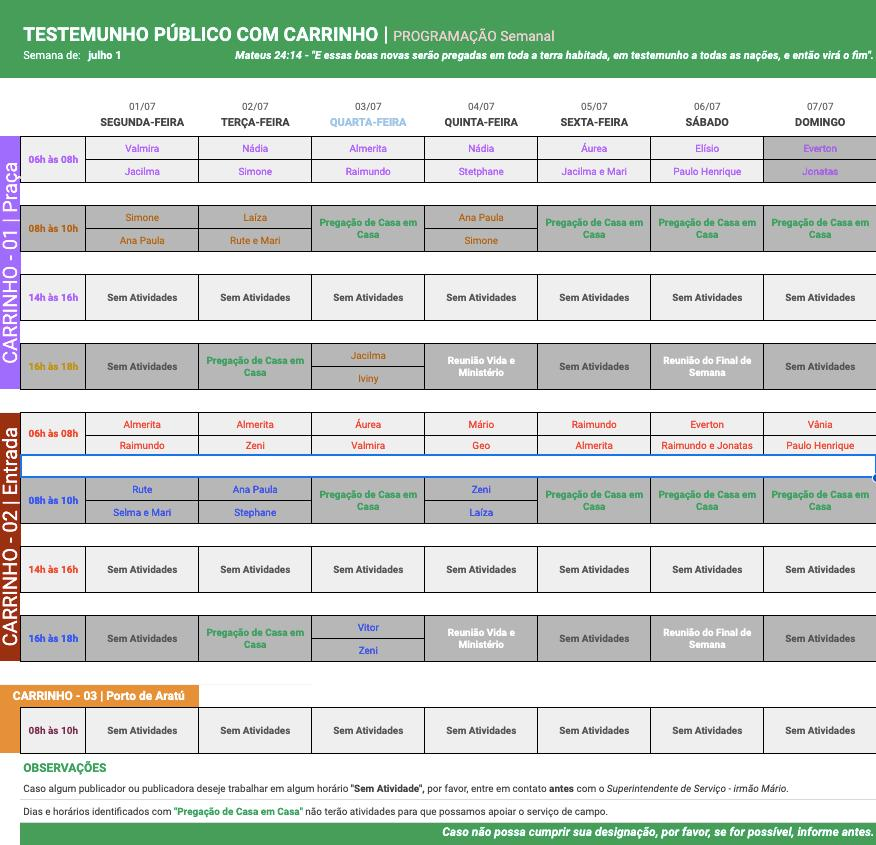
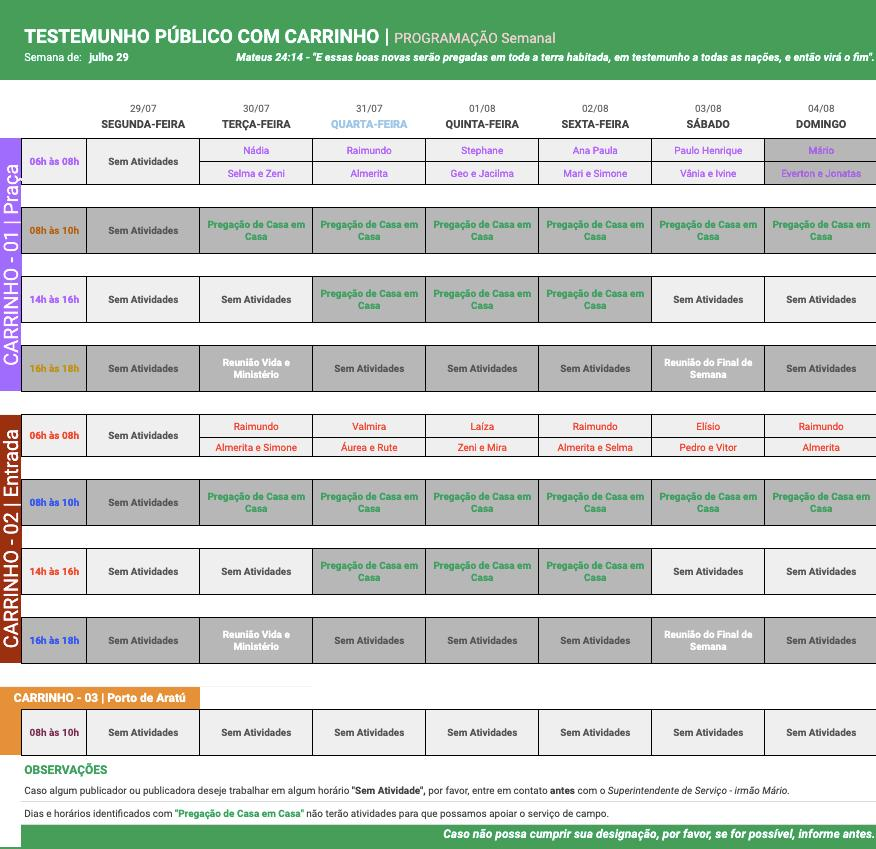
updated data august 2024

diff --git a/pages/mecanicas.html b/pages/mecanicas.html
@@ -112,79 +112,6 @@
                     </h2>
 
                     <h4 style="text-align: center; color: black">
-                        <strong>Mês de Julho</strong>
-                    </h4>
-                    <table class="table table-striped">
-                        <thead class="thead-dark">
-                            <tr>
-                                <th scope="col">Data</th>
-                                <th scope="col">Palco</th>
-                                <th scope="col">Porta</th>
-                                <th scope="col">Microfone 1</th>
-                                <th scope="col">Microfone 2</th>
-                            </tr>
-                        </thead>
-                        <tbody>
-                            <tr>
-                                <th scope="row">Quinta-feira - 04/07</th>
-                                <td>Elísio</td>
-                                <td>Raimundo</td>
-                                <td>Dielson</td>
-                                <td>Jonatan</td>
-                            </tr>
-                            <tr>
-                                <th scope="row">Sábado - 06/07</th>
-                                <td>Dielson</td>
-                                <td>Vitor</td>
-                                <td>Raimundo</td>
-                                <td>Claudemiro</td>
-                            </tr>
-                            <tr>
-                                <th scope="row">Quinta-feira - 11/07</th>
-                                <td>Elísio</td>
-                                <td>Dielson</td>
-                                <td>Pedro</td>
-                                <td>Mário</td>
-                            </tr>
-                            <tr>
-                                <th scope="row">Sábado - 13/07</th>
-                                <td>Vitor</td>
-                                <td>Claudemiro</td>
-                                <td>Dielson</td>
-                                <td>Jonatan</td>
-                            </tr>
-                            <tr>
-                                <th scope="row">Quinta-feira - 18/07</th>
-                                <td>Vitor</td>
-                                <td>Dielson</td>
-                                <td>Jonatan</td>
-                                <td>Pedro</td>
-                            </tr>
-                            <tr>
-                                <th scope="row">Sábado - 20/07</th>
-                                <td>Elísio</td>
-                                <td>Raimundo</td>
-                                <td>Dielson</td>
-                                <td>Claudemiro</td>
-                            </tr>
-                            <tr>
-                                <th scope="row">Quinta-feira - 25/07</th>
-                                <td>Claudemiro</td>
-                                <td>Dielson</td>
-                                <td>Vitor</td>
-                                <td>Pedro</td>
-                            </tr>
-                            <tr>
-                                <th scope="row">Sábado - 27/07</th>
-                                <td>Vitor</td>
-                                <td>Claudemiro</td>
-                                <td>Dielson</td>
-                                <td>Jonatan</td>
-                            </tr>
-                        </tbody>
-                    </table>
-
-                    <h4 style="text-align: center; color: black">
                         <strong>Mês de Agosto</strong>
                     </h4>
                     <table class="table table-striped">
@@ -350,46 +277,6 @@
                         <a name="ensino"><strong>Presidência aos Sábados e Leitor de A
                                 Sentinela</strong></a>
                     </h2>
-
-                    <h4 style="text-align: center; color: black">
-                        <strong>Mês de Julho</strong>
-                    </h4>
-                    <table class="table table-striped">
-                        <thead class="thead-dark">
-                            <tr>
-                                <th scope="col">Data</th>
-                                <th scope="col">Presidente</th>
-                                <th scope="col">Leitor de A Sentinela</th>
-                            </tr>
-                        </thead>
-                        <tbody>
-                            <tr>
-                                <th scope="row">06/07</th>
-                                <td>Mário Júnior</td>
-                                <td>Josenildo</td>
-                            </tr>
-                            <tr>
-                                <th scope="row">13/07</th>
-                                <td>Elísio Chagas</td>
-                                <td>Claudemiro Rodrigues</td>
-                            </tr>
-                            <tr>
-                                <th scope="row">20/07</th>
-                                <td>Paulo Henrique</td>
-                                <td>Dielson Paz</td>
-                            </tr>
-                            <tr>
-                                <th scope="row">27/07</th>
-                                <td style="color: red">
-                                    <strong>CONGRESSO</strong>
-                                </td>
-                                <td style="color: red">
-                                    <strong>CONGRESSO</strong>
-                                </td>
-                            </tr>
-                        </tbody>
-                    </table>
-
                     <h4 style="text-align: center; color: black">
                         <strong>Mês de Agosto</strong>
                     </h4>

diff --git a/pages/servicos.html b/pages/servicos.html
@@ -105,7 +105,7 @@
                         <a name="semanal"><strong>Programação Semanal de Campo</strong></a>
                     </h2>
                     <div>
-                        <img src="../assets/images/data/campoJulho.jpeg" alt="Programação Semanal de Serviço de Campo"
+                        <img src="../assets/images/data/campoAgosto.jpeg" alt="Programação Semanal de Serviço de Campo"
                             width="100%" height="100%" />
                     </div>
 
@@ -234,7 +234,7 @@
                         <a name="carrinho"><strong>Programação Carrinho / Display</strong></a>
                     </h2>
                     <h4 style="text-align: center; color: black;">
-                        <strong>Semana de 01 à 07 de Julho</strong>
+                        <strong>Semana de 29 de Julho à 04 de Agosto</strong>
                     </h4>
                     <div style="margin-bottom: 20px;">
                         <img src="../assets/images/data/carrinho1.jpeg" alt="Programação Carrinho de 01 a 07 de Julho"
@@ -242,7 +242,7 @@
                     </div>
 
                     <h4 style="text-align: center; color: black">
-                        <strong>Semana de 08 à 14 de Julho</strong>
+                        <strong>Semana de 05 à 11 de Agosto</strong>
                     </h4>
                     <div style="margin-bottom: 20px;">
                         <img src="../assets/images/data/carrinho2.jpeg" alt="Programação Carrinho de 08 a 14 de Julho"
@@ -250,7 +250,7 @@
                     </div>
 
                     <h4 style="text-align: center; color: black">
-                        <strong>Semana de 15 à 21 de Julho</strong>
+                        <strong>Semana de 12 à 18 de Agosto</strong>
                     </h4>
                     <div style="margin-bottom: 20px;">
                         <img src="../assets/images/data/carrinho3.jpeg" alt="Programação Carrinho de 15 a 21 de Julho"
@@ -258,10 +258,18 @@
                     </div>
 
                     <h4 style="text-align: center; color: black">
-                        <strong>Semana de 22 à 28 de Julho</strong>
+                        <strong>Semana de 19 à 25 de Agosto</strong>
                     </h4>
                     <div>
                         <img src="../assets/images/data/carrinho4.jpeg" alt="Programação Carrinho de 22 a 28 de Julho"
+                            width="100%" height="100%" />
+                    </div>
+
+                    <h4 style="text-align: center; color: black">
+                        <strong>Semana de 26 de Agosto a 01 de Setembro</strong>
+                    </h4>
+                    <div>
+                        <img src="../assets/images/data/carrinho5.jpeg" alt="Programação Carrinho de 22 a 28 de Julho"
                             width="100%" height="100%" />
                     </div>
                 </div>

diff --git a/pages/vida_ministerio.html b/pages/vida_ministerio.html
@@ -106,24 +106,6 @@
 
                 <div class="fh5co-entry padding">
                     <h1 style="text-align: center; color: black">
-                        <strong>Programação Mês de Julho</strong>
-                    </h1>
-                    <div>
-                        <img src="../assets/images/data/vm_04-07-2024.jpeg"
-                            alt="Reunião Vida e Ministério 04 de Julho de 2024" width="100%" height="100%" />
-                    </div>
-                    <div>
-                        <img src="../assets/images/data/vm_11-07-2024.jpeg"
-                            alt="Reunião Vida e Ministério 11 de Julho de 2024" width="100%" height="100%" />
-                    </div>
-                    <div>
-                        <img src="../assets/images/data/vm_18-07-2024.jpeg"
-                            alt="Reunião Vida e Ministério 18 de Julho de 2024" width="100%" height="100%" />
-                    </div>
-                </div>
-
-                <div class="fh5co-entry padding">
-                    <h1 style="text-align: center; color: black">
                         <strong>Programação Mês de Agosto</strong>
                     </h1>
                     <div>
@@ -163,22 +145,24 @@
                 </thead>
                 <tbody>
                     <tr>
-                        <td>06-07-2024</td>
-                        <td>Como enfrentar o futuro com fé e coragem</td>
+                        <td>03-08-2024</td>
+                        <td>Tome posição contra o Diabo</td>
                     </tr>
                     <tr>
-                        <td>13-07-2024</td>
-                        <td>Como se cumprirá a promessa de perfeita felicidade familiar</td>
+                        <td>10-08-2024</td>
+                        <td>Você pode encarar o futuro com confiança</td>
                     </tr>
                     <tr>
-                        <td>20-07-2024</td>
-                        <td>
-                            Imite a misericórdia de Jeová
-                        </td>
+                        <td>17-08-2024</td>
+                        <td>Você é importante para Deus?</td>
                     </tr>
                     <tr>
-                        <td>27-07-2024</td>
-                        <td>[Congresso de 2024] - Declare as Boas Novas!</td>
+                        <td>24-08-2024</td>
+                        <td>Os problemas de hoje logo serão coisas do passado</td>
+                    </tr>
+                    <tr>
+                        <td>31-08-2024</td>
+                        <td>Você está no caminho para a vida eterna?</td>
                     </tr>
                 </tbody>
             </table>

diff --git a/pages/eventos.html b/pages/eventos.html
@@ -98,25 +98,6 @@
 			<div class="fh5co-post">
 				<div class="fh5co-entry padding">
 					<div class="anuncios">
-						<h3><a name="congresso"><strong>Anúnio Sobre Congresso Regional das Testemunhas de
-									Jeová</strong></a></h3>
-						<h4 style="color: black;">O Tema do Nosso Próximo Congresso é <a
-								href="https://www.jw.org/pt/testemunhas-de-jeova/congressos/" target="_blank">"Declare
-								as Boas Novas!"</a></h4>
-						<p>Prezados irmãos,</p>
-						<p style="padding-left: 40px;">A Congregação Caboto assistirá o Congresso no final de semana de
-							<strong>26 a 28 de julho de 2024</strong>.
-							O programa começará as 09:00h no Auditório A do Salão de Assembleias de Camaçari.
-						</p>
-						<p><a href="https://www.jw.org/pt/biblioteca/livros/programa-congresso-2024/"
-								target="_blank">Programa do Congresso</a></p>
-					</div>
-				</div>
-			</div>
-
-			<div class="fh5co-post">
-				<div class="fh5co-entry padding">
-					<div class="anuncios">
 						<h3><a name="visita"><strong>Anúncio Sobre a Visita do Superintendente de Circuito</strong></a>
 						</h3>
 						<p>Prezados irmãos,</p>
